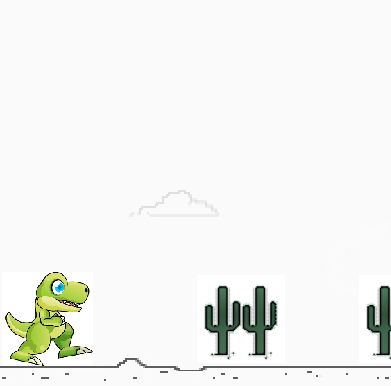
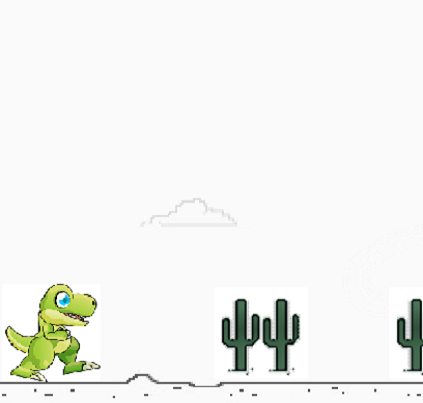
images_updated

Changed region(s): [[0.0, 0.6839, 1.0, 0.9948], [0.6445, 0.7461, 0.6752, 0.7772], [0.2148, 0.7461, 0.2455, 0.7772]]

diff --git a/tm/dino/codelab/tr/index.html b/tm/dino/codelab/tr/index.html
@@ -32,7 +32,7 @@
 
         <p><a href="https://teachablemachine.withgoogle.com/" target="_blank">Teachable Machine</a> ve <a href="https://asabuncuoglu13.github.io/karton-games/" target="_blank">Kart-ON Oyun</a> ile programlamanın temellerini öğrenebileceğimiz ve hayatımızdaki yapay zeka örneklerini keşfedeceğimiz bir yolculuğa çıkıyoruz. Kart-ON Oyun&#39;un temel programlama blokları ile sıkça oynadığımız oyunların temelinde yatan mantık yapısını kodlayabiliriz. Teachable Machine ile de bu oyunları kodlarken yapay zeka algoritmalarından yararlanabiliriz. </p>
         <p>Bu örnekte, Kart-ON ile &#34;<a href="https://en.wikipedia.org/wiki/Dinosaur_Game" target="_blank">Dino</a>&#34; Oyununu Kodlayacağız. Oyun için biz bazı ön hazırlıklar yaptık ve size üstüne düşüneceğiniz bazı görevler bıraktık. Bu görevler için dokuz tane programlama bloğunu size bırakıyoruz. Bu komutları kullanarak beş adet görevi tamamlayacaksınız.</p>
-        <p class="image-container"><img style="width: 624.00px" src="./img/flappy-commands.png"></p>
+        <p class="image-container"><img style="width: 624.00px" src="./img/dino-commands.png"></p>
         <p>Yukarıdaki şekilde sıralanan komutları önce fiziksel olarak tasarlayıp, sonra birer programlama bloğu olarak kullanarak beş adet görevi tamamlayacaksınız. Mesela, benim kendi uygulamam için tasarladığım bazı kartlar aşağıdaki gibi şekillendi.</p>
         <p class="image-container"><img style="width: 697.37px" src="./img/6dd860f44778e342.jpeg"></p>
         <p>Haydi, bu programlama bloklarını, oyun hamuru, LEGO, kağıt, kalem veya farklı fiziksel materyallerler ile fizikselleştir.</p>
@@ -147,7 +147,7 @@
                 </td>
             </tr>
         </table>
-        <p>Tabloda gördüğün programlama komutları için bir sınıf numarası belirledik. Bu sınıf numarasını her bir eğitim kartının başlığı olarak değiştirirsen, artık Kart-ON Oyun - Flappy Bird uygulaması senin tasarladığın kartların kendi sisteminde hangi komuta karşılık geldiğini anlayabilir.</p>
+        <p>Tabloda gördüğün programlama komutları için bir sınıf numarası belirledik. Bu sınıf numarasını her bir eğitim kartının başlığı olarak değiştirirsen, artık Kart-ON Oyun - Dino uygulaması senin tasarladığın kartların kendi sisteminde hangi komuta karşılık geldiğini anlayabilir.</p>
         <p class="image-container"><img style="width: 624.00px" src="./img/d0d8739e2d5c3957.png"></p>
         <p>Yukarıdaki şekilde olduğu gibi &#34;Ekrana Dokununca&#34; sınıfımın ismini, tabloda karşılık gelen &#34;1&#34; olarak değiştiriyorum.</p>
 
@@ -172,7 +172,7 @@
         <p class="image-container"><img style="width: 624.00px" src="./img/5ea54ade7667ecbb.png"></p>
         <p>Bağlantı oluşturma işlemi tamamlandığında &#34;Your Shareable Link&#34; altında beliren linki kopyalayabilirsin.</p>
         <p class="image-container"><img style="width: 624.00px" src="./img/274197b936e46f49.png"></p>
-        <p>Kopyaladığınız bu linki, (1) <a href="https://asabuncuoglu13.github.io/karton-games/" target="_blank">Kart-ON Oyun açılış sayfası</a>ndaki kutucuğa kopyalayıp, (2) Flappy Bird oyun kutusuna tıklayarak, Flappy Bird oyununu kodlamak için kullanabilirsiniz.</p>
+        <p>Kopyaladığınız bu linki, (1) <a href="https://asabuncuoglu13.github.io/karton-games/" target="_blank">Kart-ON Oyun açılış sayfası</a>ndaki kutucuğa kopyalayıp, (2) Dino oyun kutusuna tıklayarak, Dino oyununu kodlamak için kullanabilirsiniz.</p>
         <p class="image-container"><img style="width: 624.00px" src="./img/tm-screen.png"></p>
 
     </google-codelab-step>
